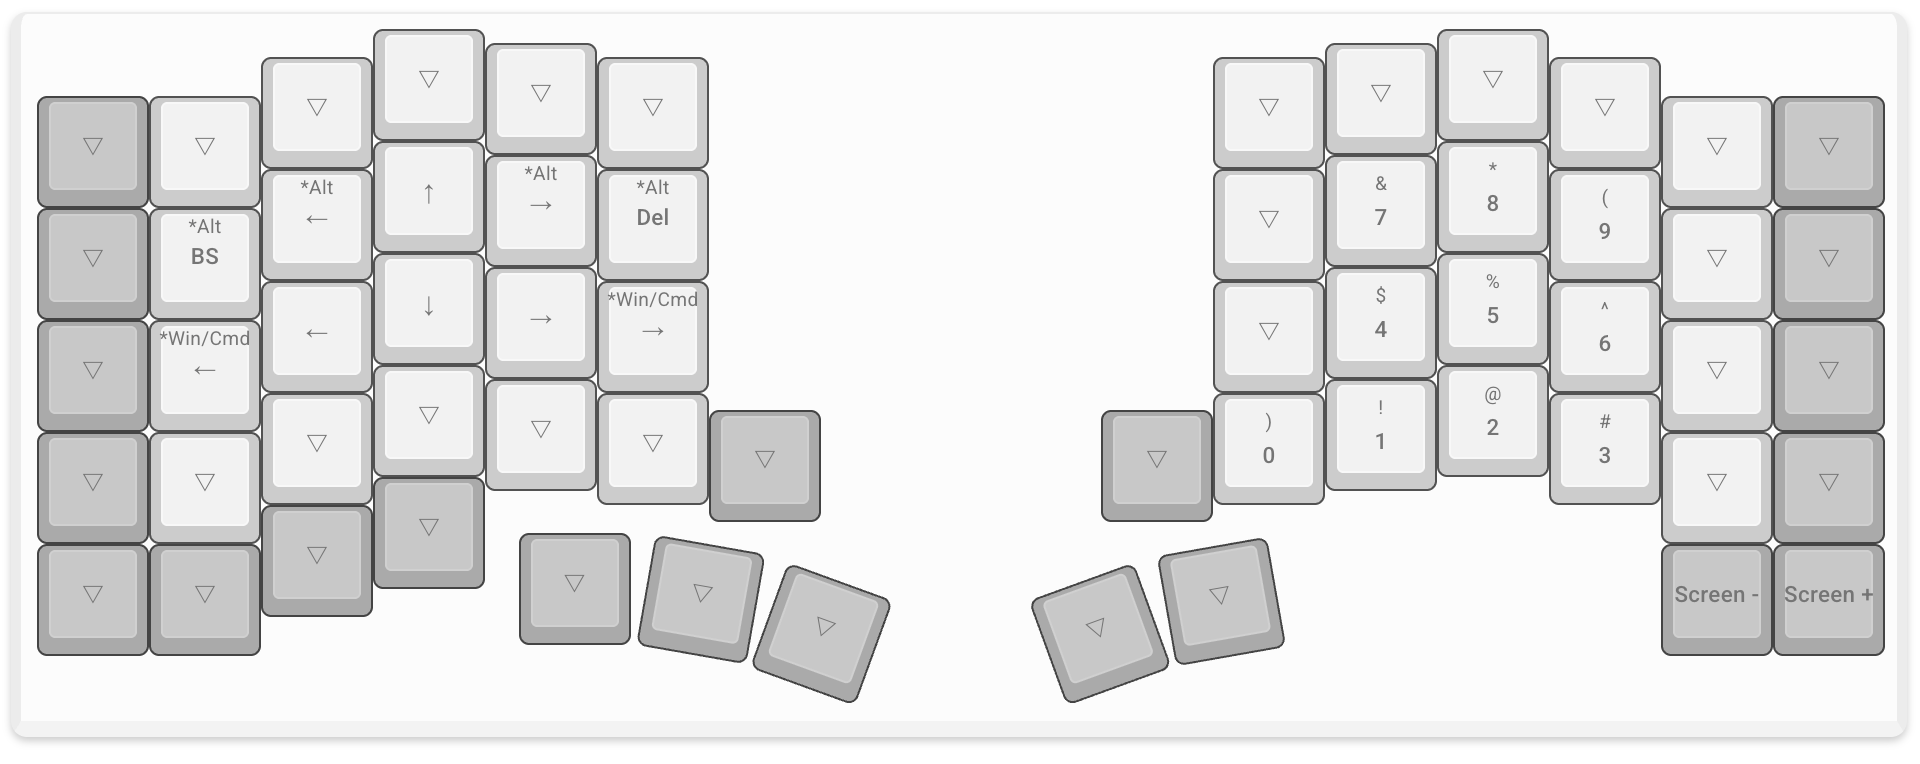
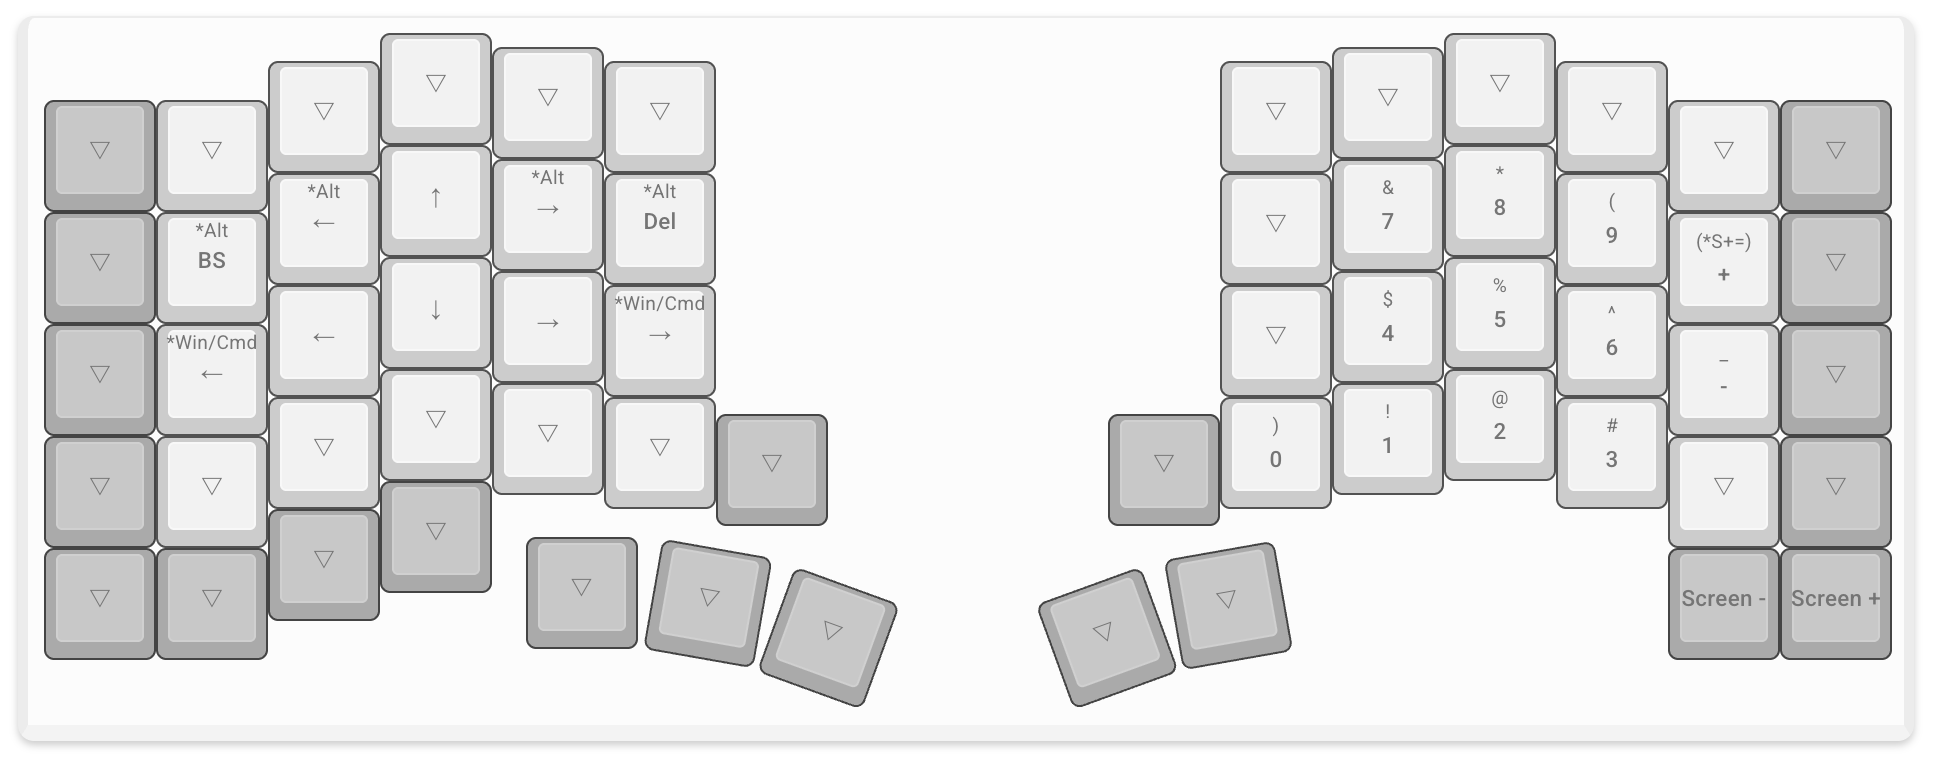
+ の位置を調整

Changed region(s): [[0.0, 0.0302, 0.4688, 0.9357], [0.5312, 0.0302, 1.0, 0.9357], [0.0312, 0.9659, 0.9688, 0.9961]]

diff --git a/qmk_firmware/keyboards/keyball/keyball61/keymaps/my-keymap/keymap.c b/qmk_firmware/keyboards/keyball/keyball61/keymaps/my-keymap/keymap.c
@@ -42,14 +42,14 @@ const uint16_t PROGMEM keymaps[][MATRIX_ROWS][MATRIX_COLS] = {
     _______        , _______    , _______    , MO(4)         , LALT_T(KC_LNG2)   , LT(1,KC_SPC)    , KC_LGUI       , KC_RGUI         , LT(2,KC_LNG1) , XXXXXXX       , XXXXXXX    , XXXXXXX , KC_VOLD , KC_VOLU
   ),
   // 数字と移動
-  //   右手: 数字（テンキーと同じ並び）
+  //   右手: 数字（テンキーと同じ並び）と + -
   //   左手: 矢印
   //   Q: カーソルの左の1単語を削除（Option+Backspace）  T: カーソルの右の1単語を削除（Option+Delete）
   //   右下の2キー: 画面の明るさ
   [1] = LAYOUT_universal(
     _______        , _______    , _______    , _______       , _______           , _______         ,                                   _______       , _______       , _______    , _______ , _______ , _______ ,
-    _______        , A(KC_BSPC) , A(KC_LEFT) , KC_UP         , A(KC_RGHT)        , A(KC_DEL)       ,                                   _______       , KC_7          , KC_8       , KC_9    , _______ , _______ ,
-    _______        , G(KC_LEFT) , KC_LEFT    , KC_DOWN       , KC_RGHT           , G(KC_RGHT)      ,                                   _______       , KC_4          , KC_5       , KC_6    , _______ , _______ ,
+    _______        , A(KC_BSPC) , A(KC_LEFT) , KC_UP         , A(KC_RGHT)        , A(KC_DEL)       ,                                   _______       , KC_7          , KC_8       , KC_9    , KC_PLUS , _______ ,
+    _______        , G(KC_LEFT) , KC_LEFT    , KC_DOWN       , KC_RGHT           , G(KC_RGHT)      ,                                   _______       , KC_4          , KC_5       , KC_6    , KC_MINS , _______ ,
     _______        , _______    , _______    , _______       , _______           , _______         , _______       , _______         , KC_0          , KC_1          , KC_2       , KC_3    , _______ , _______ ,
     _______        , _______    , _______    , _______       , _______           , _______         , _______       , _______         , _______       , XXXXXXX       , XXXXXXX    , XXXXXXX , KC_BRID , KC_BRIU
   ),
@@ -58,12 +58,12 @@ const uint16_t PROGMEM keymaps[][MATRIX_ROWS][MATRIX_COLS] = {
   //   Q ' quote         W " w-quote    E = equal      R ^ raised to the power of   T ~ tilde
   //   A @ at            S * star       D $ dollar     G ` grave
   //   X ! eXclamation   C : colon      V | vertical   B \ backslash
-  //   H # hash          N & 'n (and)   L + large      P % percent
+  //   H # hash          N & 'n (and)   M % mod        P + plus
   [2] = LAYOUT_universal(
     _______        , _______    , _______    , _______       , _______           , _______         ,                                   _______       , _______       , _______    , _______ , _______ , _______ ,
-    _______        , KC_QUOT    , KC_DQUO    , KC_EQL        , KC_CIRC           , KC_TILD         ,                                   _______       , KC_LPRN       , KC_RPRN    , _______ , KC_PERC , _______ ,
-    _______        , KC_AT      , KC_ASTR    , KC_DLR        , _______           , KC_GRV          ,                                   KC_HASH       , KC_LBRC       , KC_RBRC    , KC_PLUS , _______ , _______ ,
-    _______        , _______    , KC_EXLM    , KC_SCLN       , KC_PIPE           , KC_BSLS         , _______       , _______         , KC_AMPR       , _______       , _______    , _______ , _______ , _______ ,
+    _______        , KC_QUOT    , KC_DQUO    , KC_EQL        , KC_CIRC           , KC_TILD         ,                                   _______       , KC_LPRN       , KC_RPRN    , _______ , KC_PLUS , _______ ,
+    _______        , KC_AT      , KC_ASTR    , KC_DLR        , _______           , KC_GRV          ,                                   KC_HASH       , KC_LBRC       , KC_RBRC    , _______ , _______ , _______ ,
+    _______        , _______    , KC_EXLM    , KC_SCLN       , KC_PIPE           , KC_BSLS         , _______       , _______         , KC_AMPR       , KC_PERC       , _______    , _______ , _______ , _______ ,
     _______        , _______    , _______    , _______       , _______           , _______         , _______       , _______         , _______       , XXXXXXX       , XXXXXXX    , XXXXXXX , _______ , _______
   ),
   // マウス（オートマウスレイヤー）

diff --git a/qmk_firmware/keyboards/keyball/keyball61/keymaps/my-keymap/README.md b/qmk_firmware/keyboards/keyball/keyball61/keymaps/my-keymap/README.md
@@ -65,7 +65,7 @@ Option が2つあるのは他のキーとの組み合わせによって使いや
 
 ![レイヤー1（数字と移動）](./images/layer_1.png)
 
-右手には、電卓のテンキーと同じ並びで数字があり、右下の2つのキーは、画面を暗くする・明るくするキーです。
+右手には、電卓のテンキーと同じ並びで数字があります。P のキーは `+`、P の下のキーは `-` です。また、右下の2つのキーは、画面を暗くする・明るくするキーです。
 
 左手のキーは次のとおりです。
 
@@ -93,8 +93,8 @@ Option が2つあるのは他のキーとの組み合わせによって使いや
 | R   | `^`  | raised to the power of | G   | `` ` `` | grave   |
 | T   | `~`  | tilde                  | H   | `#`     | hash    |
 | X   | `!`  | eXclamation            | N   | `&`     | 'n（and） |
-| C   | `:`  | colon                  | L   | `+`     | large   |
-| V   | `\|` | vertical bar           | P   | `%`     | percent |
+| C   | `:`  | colon                  | M   | `%`     | mod（余り） |
+| V   | `\|` | vertical bar           | P   | `+`     | plus    |
 | B   | `\`  | backslash              |     |         |         |
 
 U・I には丸かっこ `( )`、J・K には角かっこ `[ ]` があります。
